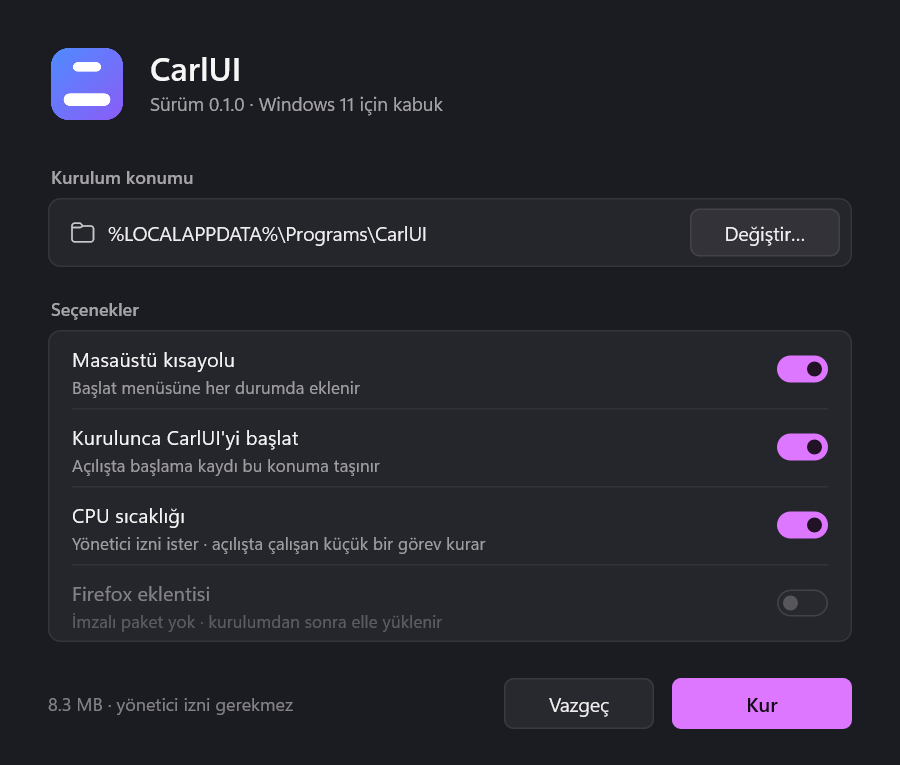
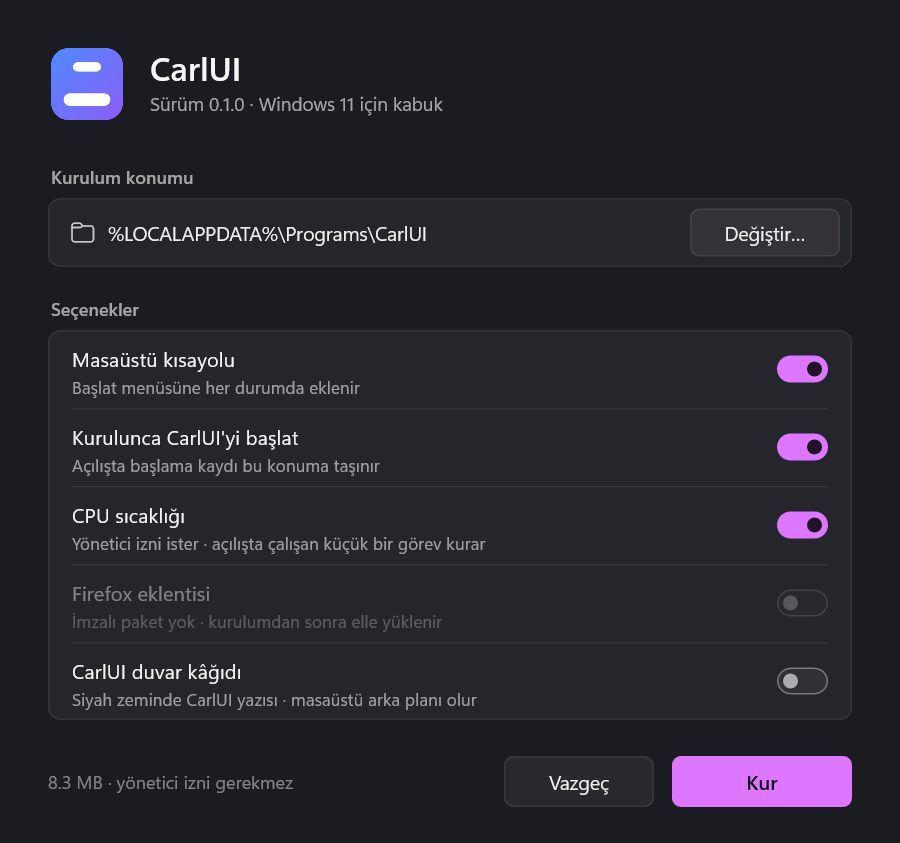
Kurucu: isteğe bağlı CarlUI duvar kâğıdı
Siyah zeminde "CarlUI" yazılı duvar kâğıdı (tools\make-wallpaper.ps1)
kurucuya gömüldü; "CarlUI duvar kâğıdı" seçeneği açıksa kurulum klasörüne
yazılıp masaüstü arka planı yapılır. Sessiz kurulumda --wallpaper.

diff --git a/crates/carlui-setup/src/main.rs b/crates/carlui-setup/src/main.rs
@@ -13,6 +13,7 @@
 //!   --test <klasör>        deneme: yalnızca dosyalar yazılır (kayıt, kısayol, görev yok)
 //!   --headless             pencere açmadan çalış: --test ile deneme, tek başına
 //!                          varsayılan seçeneklerle sessiz kurulum
+//!   --wallpaper            sessiz kurulumda CarlUI duvar kâğıdını da uygula
 //!   --snapshot <sayfa> <png>  sayfayı pencere açmadan PNG'ye çiz (welcome, work, done, confirm)
 
 #![cfg_attr(not(debug_assertions), windows_subsystem = "windows")]
@@ -71,6 +72,7 @@ pub enum Opt {
     Launch,
     Sensors,
     Firefox,
+    Wallpaper,
     Purge,
 }
 
@@ -124,6 +126,7 @@ struct Args {
     dry: bool,
     headless: bool,
     temp: bool,
+    wallpaper: bool,
     snapshot: Option<(String, PathBuf)>,
 }
 
@@ -138,6 +141,7 @@ fn parse_args() -> Args {
         dir: test.or_else(|| after("--dir", 1).map(PathBuf::from)),
         headless: has("--headless"),
         temp: has("--temp"),
+        wallpaper: has("--wallpaper"),
         snapshot: after("--snapshot", 1).zip(after("--snapshot", 2).map(PathBuf::from)),
     }
 }
@@ -167,7 +171,7 @@ impl App {
             accent: glassmenu::accent(),
             mode,
             page: if mode == Mode::Install { Page::Welcome } else { Page::Confirm },
-            opts: install::Options { dir, desktop: true, launch: true, sensors: pawnio, firefox: payload::XPI.is_some(), dry },
+            opts: install::Options { dir, desktop: true, launch: true, sensors: pawnio, firefox: payload::XPI.is_some(), wallpaper: false, dry },
             purge: false,
             pawnio,
             installed_before,
@@ -216,6 +220,7 @@ impl App {
                     Opt::Launch => &mut self.opts.launch,
                     Opt::Sensors => &mut self.opts.sensors,
                     Opt::Firefox => &mut self.opts.firefox,
+                    Opt::Wallpaper => &mut self.opts.wallpaper,
                     Opt::Purge => &mut self.purge,
                 };
                 *v = !*v;
@@ -495,13 +500,13 @@ fn main() -> Result<()> {
         return snapshot(page, out, args.mode, dir);
     }
     if args.headless && args.dry {
-        let opts = install::Options { dir, desktop: false, launch: false, sensors: false, firefox: false, dry: true };
+        let opts = install::Options { dir, desktop: false, launch: false, sensors: false, firefox: false, wallpaper: false, dry: true };
         headless(args.mode, opts, false);
         return Ok(());
     }
     if args.headless && args.mode == Mode::Install {
         // Sessiz gerçek kurulum: penceredeki varsayılan seçeneklerle.
-        let opts = install::Options { dir, desktop: true, launch: true, sensors: shell::pawnio_installed(), firefox: payload::XPI.is_some(), dry: false };
+        let opts = install::Options { dir, desktop: true, launch: true, sensors: shell::pawnio_installed(), firefox: payload::XPI.is_some(), wallpaper: args.wallpaper, dry: false };
         headless(args.mode, opts, false);
         return Ok(());
     }

diff --git a/crates/carlui-setup/src/install.rs b/crates/carlui-setup/src/install.rs
@@ -3,7 +3,8 @@
 //! çalışan CarlUI kibarca kapatılır, gömülü exe'ler kullanıcı klasörüne yazılır
 //! (kilitli bir exe varsa yeniden adlandırılıp yenisi yanına konur), Programlar
 //! listesine kayıt ve Başlat menüsü kısayolları eklenir. İsteğe bağlı adımlar:
-//! masaüstü kısayolu, imzalı Firefox eklentisi, CPU sıcaklığı görevi (UAC).
+//! masaüstü kısayolu, imzalı Firefox eklentisi, CarlUI duvar kâğıdı, CPU
+//! sıcaklığı görevi (UAC).
 //! Başlangıç kaydını CarlUI'nin kendisi, açıldığında kendi konumuna göre kurar.
 
 use crate::{payload, shell, WM_APP_PROGRESS};
@@ -25,6 +26,8 @@ pub struct Options {
     pub launch: bool,
     pub sensors: bool,
     pub firefox: bool,
+    /// CarlUI duvar kâğıdını masaüstü arka planı yap.
+    pub wallpaper: bool,
     /// Deneme: yalnızca dosyalar yazılır; kayıt defteri, kısayol, görev yok.
     pub dry: bool,
 }
@@ -126,7 +129,7 @@ pub fn xpi_path(dir: &Path) -> PathBuf {
 fn run(o: &Options, rep: &Reporter) -> Outcome {
     let mut notes = Vec::new();
     let fail = |notes: Vec<String>| Outcome { ok: false, notes };
-    let total = (payload::FILES.len() + payload::EXTENSION.len() + 6) as f32;
+    let total = (payload::FILES.len() + payload::EXTENSION.len() + 7) as f32;
     let mut n = 0.0f32;
     let mut tick = |rep: &Reporter, s: &str| {
         n += 1.0;
@@ -231,6 +234,15 @@ fn run(o: &Options, rep: &Reporter) -> Outcome {
             notes.push("Firefox bir sonraki açılışta eklentiyi etkinleştirmek için onay isteyecek".into());
         } else {
             notes.push("Firefox eklentisi tanıtılamadı".into());
+        }
+    }
+
+    if o.wallpaper {
+        tick(rep, "Duvar kâğıdı uygulanıyor");
+        let path = o.dir.join(r"wallpaper\carlui.png");
+        let ok = path.parent().is_some_and(|d| std::fs::create_dir_all(d).is_ok()) && std::fs::write(&path, payload::WALLPAPER).is_ok() && shell::set_wallpaper(&path);
+        if !ok {
+            notes.push("Duvar kâğıdı uygulanamadı".into());
         }
     }
 

diff --git a/crates/carlui-setup/src/view.rs b/crates/carlui-setup/src/view.rs
@@ -13,7 +13,7 @@ use windows::Win32::Graphics::Direct2D::{Common::D2D_RECT_F, ID2D1Bitmap, D2D1_B
 pub type P<'a> = Painter<'a, Act>;
 
 pub const W: f32 = 600.0;
-pub const H: f32 = 510.0;
+pub const H: f32 = 562.0;
 const PAD: f32 = 32.0;
 
 /// Vurgu renginde ana düğme (Kur / Kaldır / Kapat).
@@ -81,15 +81,16 @@ impl App {
 
         let y = y + 88.0;
         p.text("Seçenekler", R::new(PAD + 2.0, y, cw, 20.0), 12.0, true, TEXT, 0.6, Align::Left);
-        let card = R::new(PAD, y + 24.0, cw, 52.0 * 4.0);
+        let card = R::new(PAD, y + 24.0, cw, 52.0 * 5.0);
         p.card(card);
         let pawn = self.pawnio;
         let xpi = payload::XPI.is_some();
-        let rows: [(&str, &str, bool, bool, Opt); 4] = [
+        let rows: [(&str, &str, bool, bool, Opt); 5] = [
             ("Masaüstü kısayolu", "Başlat menüsüne her durumda eklenir", self.opts.desktop, true, Opt::Desktop),
             ("Kurulunca CarlUI'yi başlat", "Açılışta başlama kaydı bu konuma taşınır", self.opts.launch, true, Opt::Launch),
             ("CPU sıcaklığı", if pawn { "Yönetici izni ister · açılışta çalışan küçük bir görev kurar" } else { "PawnIO sürücüsü kurulu değil" }, self.opts.sensors, pawn, Opt::Sensors),
             ("Firefox eklentisi", if xpi { "İmzalı eklenti Firefox'a otomatik tanıtılır" } else { "İmzalı paket yok · kurulumdan sonra elle yüklenir" }, self.opts.firefox, xpi, Opt::Firefox),
+            ("CarlUI duvar kâğıdı", "Siyah zeminde CarlUI yazısı · masaüstü arka planı olur", self.opts.wallpaper, true, Opt::Wallpaper),
         ];
         for (i, (t, d, on, en, opt)) in rows.into_iter().enumerate() {
             let rr = R::new(card.x, card.y + 52.0 * i as f32, card.w, 52.0);

diff --git a/crates/carlui-setup/src/shell.rs b/crates/carlui-setup/src/shell.rs
@@ -282,6 +282,13 @@ pub fn pick_folder(owner: HWND, start: &Path) -> Option<PathBuf> {
     }
 }
 
+/// Resmi masaüstü arka planı yapar ("Doldur" yerleşimiyle, tüm monitörlerde).
+pub fn set_wallpaper(path: &Path) -> bool {
+    let _ = reg_set(r"Control Panel\Desktop", &[("WallpaperStyle", Val::Str("10")), ("TileWallpaper", Val::Str("0"))]);
+    let p = wide(&path.display().to_string());
+    unsafe { SystemParametersInfoW(SPI_SETDESKWALLPAPER, 0, Some(p.as_ptr() as _), SPIF_UPDATEINIFILE | SPIF_SENDCHANGE).is_ok() }
+}
+
 /// Geçici kaldırıcı kopyasının adı: `%TEMP%\CarlUI-Uninstall-<pid>.exe`.
 pub fn temp_copy_name(pid: u32) -> String {
     format!("CarlUI-Uninstall-{pid}.exe")

diff --git a/crates/carlui-setup/build.rs b/crates/carlui-setup/build.rs
@@ -57,6 +57,10 @@ fn payload(root: &Path, out: &Path) {
     }
     let logo = root.join(r"assets\icons\carlui.png");
     code += &format!("pub static LOGO: &[u8] = include_bytes!(r\"{}\");\n", plain(&logo));
+    // İsteğe bağlı CarlUI duvar kâğıdı (tools\make-wallpaper.ps1 üretir).
+    let wall = root.join(r"assets\wallpaper\carlui-3840x2160.png");
+    println!("cargo:rerun-if-changed={}", plain(&wall));
+    code += &format!("pub static WALLPAPER: &[u8] = include_bytes!(r\"{}\");\n", plain(&wall));
     std::fs::write(out.join("payload.rs"), code).unwrap();
 }
 

diff --git a/README.md b/README.md
@@ -55,11 +55,11 @@ bu bilgisayarda olur. CarlUI veri toplamaz; yalnızca senin istediğin işlerde
 (döviz kuru, çeviri, web araması, indirmeler) internete bağlanır. Kaynak kodun
 tamamı bu depoda.
 
-v0.1.0 kurucusunun [VirusTotal taraması](https://www.virustotal.com/gui/file/6b0871d010778b2a3e22caea1b336eeb24c2c30ed154ef837d0c4dcac6ccd1a7):
-71 antivirüsten 69'u temiz buluyor; Microsoft Defender dahil. Yalnızca ESET'in
-genel "Kryptik" tahmini ve Bkav işaretliyor; ikisi de imzasız kurucularda sık
-görülen yanlış alarm türleri. İndirdiğin dosyanın SHA-256 değerini Releases sayfasındakiyle
-karşılaştırabilirsin.
+v0.1.0 kurucusunun [VirusTotal taraması](https://www.virustotal.com/gui/file/2e72ef0b882a7e761bbcce33dc5afdc82c5c74d329a3ad7bb52aabe735b28d78):
+Test sürümünde 71 antivirüsten 69'u temiz buldu, Microsoft Defender da temiz
+buldu. Yalnızca ESET'in genel "Kryptik" tahmini ve Bkav işaretledi; ikisi de
+imzasız kurucularda sık görülen yanlış alarm türleri. İndirdiğin dosyanın
+SHA-256 değerini Releases sayfasındakiyle karşılaştırabilirsin.
 
 ### İsteğe bağlı parçalar
 

diff --git a/docs/SURUM-NOTLARI.md b/docs/SURUM-NOTLARI.md
@@ -6,7 +6,8 @@ CarlUI'nin herkese açık ilk sürümü.
 
 **Neler var:** yüzen dock, üstte saat/bildirim/medya adası, arama ve Win
 menüsü, pano geçmişi (Win+V, tam ekran oyunun üstünde de), kontrol merkezi,
-oyun modu, görev yöneticisi, dosya dönüştürücü ve Ayarlar penceresi.
+oyun modu, görev yöneticisi, dosya dönüştürücü ve Ayarlar penceresi. Kurucuda
+isteğe bağlı CarlUI duvar kâğıdı.
 
 **Kurulum:** `CarlUI-Setup.exe` dosyasını indirip çalıştır. Yönetici izni
 gerekmez. Kurucu imzasız olduğu için SmartScreen uyarı verebilir:
@@ -19,5 +20,5 @@ gerekmez. Kurucu imzasız olduğu için SmartScreen uyarı verebilir:
   üstünde görünemez; oyunu "kenarlıksız pencere" moduna al.
 
 **SHA-256 (CarlUI-Setup.exe):**
[1 lines of base64/hex data omitted]
-([VirusTotal](https://www.virustotal.com/gui/file/6b0871d010778b2a3e22caea1b336eeb24c2c30ed154ef837d0c4dcac6ccd1a7))
[1 lines of base64/hex data omitted]
+([VirusTotal](https://www.virustotal.com/gui/file/2e72ef0b882a7e761bbcce33dc5afdc82c5c74d329a3ad7bb52aabe735b28d78))
